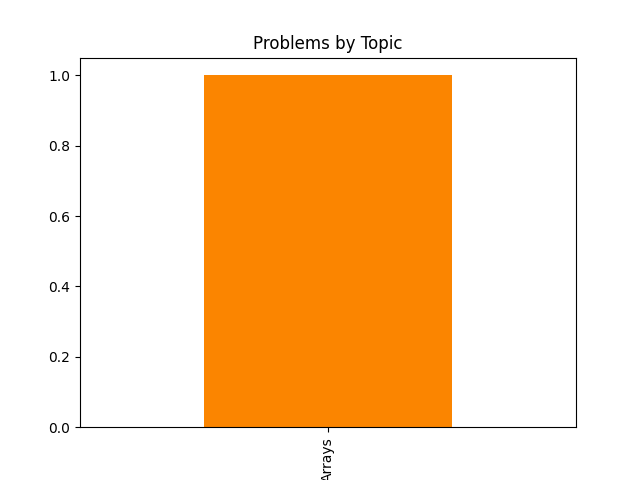
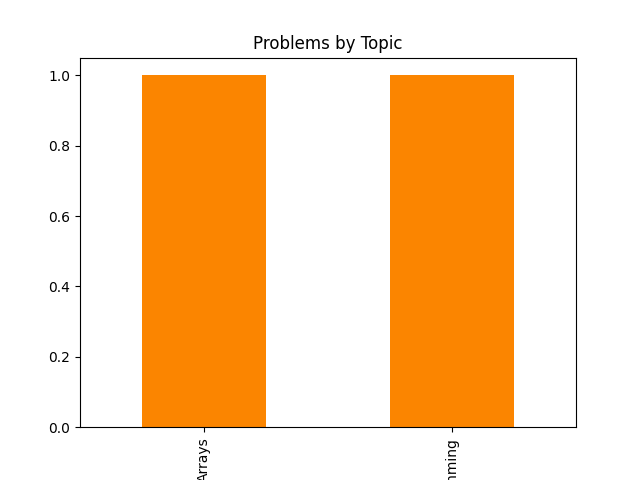
Update LeetCode stats and charts

Changed region(s): [[0.4062, 0.1562, 0.625, 1.0], [0.6875, 0.1562, 0.8125, 1.0], [0.2188, 0.1562, 0.3438, 1.0]]

diff --git a/README.md b/README.md
@@ -1,7 +1,7 @@
 # Daily LeetCode Practice 🧑💻
 
 ## 📊 Summary
-# Total problems solved: 1
+# Total problems solved: 2
 
   ![Difficulty Pie](charts/difficulty_pie.png)
   ![Topics Bar](charts/topics_bar.png)
